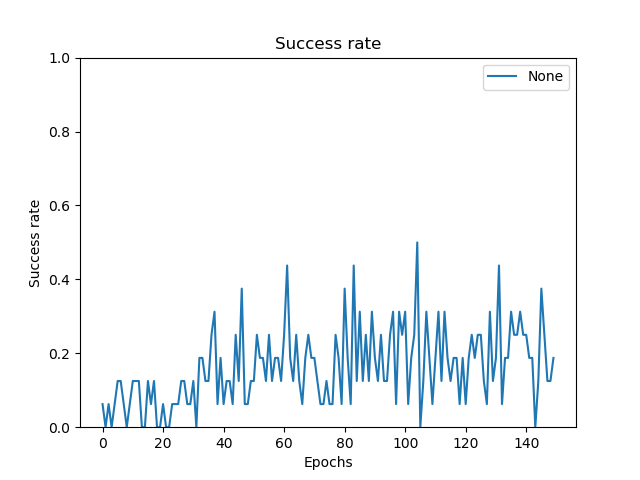
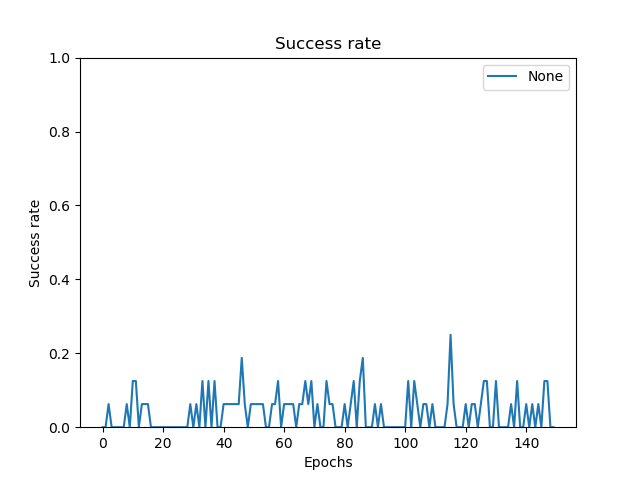
hw3 final

Changed region(s): [[0.1562, 0.5, 0.875, 0.9062]]

diff --git a/hw3/hw3_code/BitFlip.py b/hw3/hw3_code/BitFlip.py
@@ -1,0 +1,127 @@
+# bit flipping environment for CS330
+
+# Description: implementation of bit flipping environment
+#              for testing RL
+#
+# Revision History
+# 09/28/19    Tim Liu    started file
+# 09/28/19    Tim Liu    added observation_space and action_space
+#                        to BitFlipEnv
+# 09/29/19    Tim Liu    changed environment to pass state and goals as
+#                        numpy arrays
+
+import tensorflow as tf
+import numpy as np
+
+
+class BitFlipEnv():
+    '''bit flipping environment for reinforcement learning.
+    The environment is a 1D vector of binary values (state vector).
+    At each step, the actor can flip a single bit (0 to 1 or 1 to 0).
+    The goal is to flip bits until the state vector matches the
+    goal vector (also a 1D vector of binary values). At each step,
+    the actor receives a goal of 0 if the state and goal vector
+    do not match and a reward of 1 if the state and goal vector
+    match.
+
+    Internally the state and goal vector are a numpy array, which
+    allows the vectors to be printed by the show_goal and show_state
+    methods. When '''
+
+    def __init__(self, num_bits, verbose=False):
+        '''Initialize new instance of BitFlip class.
+        inputs: num_bits - number of bits in the environment; must
+                be an integer
+                verbose - prints state and goal vector after each
+                          step if True'''
+
+        # check that num_bits is a positive integer
+        if (num_bits < 0) or (type(num_bits) != type(0)):
+            print("Invalid number of bits -  must be positive integer")
+            return
+
+        # number of bits in the environment
+        self.num_bits = num_bits
+        # randomly set the state vector
+        self.state_vector = np.random.randint(0, 2, num_bits)
+        # randomly set the goal vector
+        self.goal_vector = np.random.randint(0, 2, num_bits)
+        # whether to print debugging info
+        self.verbose = verbose
+        # TODO set dimensions of observation space
+        self.observation_space = self.state_vector
+        # TODO create action space; may use gym type
+        self.action_space = num_bits
+        # space of the goal vector
+        self.goal_space = self.goal_vector
+        # number of steps taken
+        self.steps = 0
+
+        return
+
+    def show_goal(self):
+        '''Returns the goal as a numpy array. Used for debugging.'''
+        return self.goal_vector
+
+    def show_state(self):
+        '''Returns the state as a numpy array. Used for debugging.'''
+        return self.state_vector
+
+    def reset(self):
+        '''resets the environment. Returns a reset state_vector
+        and goal_vector as tf tensors'''
+
+        # randomly reset both the state and the goal vectors
+        self.state_vector = np.random.randint(0, 2, self.num_bits)
+        self.goal_vector = np.random.randint(0, 2, self.num_bits)
+
+        self.steps = 0
+
+        # return as np array
+        return self.state_vector, self.goal_vector
+
+    def step(self, action):
+        '''take a step and flip one of the bits.
+
+        inputs: action - integer index of the bit to flip
+        outputs: state - new state_vector (tensor)
+                 reward - 0 if state != goal and 1 if state == goal
+                 done - boolean value indicating if the goal has been reached'''
+        self.steps += 1
+
+        if action < 0 or action >= self.num_bits:
+            # check argument is in range
+            print("Invalid action! Must be integer ranging from \
+                0 to num_bits-1")
+            return
+
+        # flip the bit with index action
+        if self.state_vector[action] == 1:
+            self.state_vector[action] = 0
+        else:
+            self.state_vector[action] = 1
+
+        # initial values of reward and done - may change
+        # depending on state and goal vectors
+        reward = 0
+        done = True
+
+        # check if state and goal vectors are identical
+        if False in (self.state_vector == self.goal_vector):
+            reward = -1
+            done = False
+
+        # print additional info if verbose mode is on
+        if self.verbose:
+            print("Bit flipped:   ", action)
+            print("Goal vector:   ", self.goal_vector)
+            print("Updated state: ", self.state_vector)
+            print("Reward:        ", reward)
+
+        if done:
+            # print("Solved in: ", self.steps)
+            pass
+
+        # return state as numpy arrays
+        # return goal_vector in info field
+        return np.copy(self.state_vector), reward, done, self.steps

diff --git a/hw3/sawyer_main_2.py b/hw3/sawyer_main_2.py
@@ -24,9 +24,9 @@ from matplotlib import pyplot as plt
 import multiworld
 import gym
 import random
-# from scipy.spatial import distance
-# import ipdb as pdb
-# from ipdb import slaunch_ipdb_on_exception
+from scipy.spatial import distance
+import ipdb as pdb
+from ipdb import slaunch_ipdb_on_exception
 
 multiworld.register_all_envs()  # register the multiworld environment
 
@@ -176,9 +176,9 @@ def solve_environment(state, goal_state, total_reward):
         # actions in the Sawyer environment
         next_state, reward, done, _ = take_action(action)
         # add to the episode experience (what happened)
-        # episode_experience.append((state, action, reward, next_state, goal_state))
-        episode_experience.append((np.concatenate((state, goal_state)), action, reward,
-                                   np.concatenate((next_state, goal_state)), goal_state))
+        episode_experience.append((state, action, reward, next_state, goal_state))
+        # episode_experience.append((np.concatenate((state, goal_state)), action, reward,
+        #                            np.concatenate((next_state, goal_state)), goal_state))
         # calculate total reward
         total_reward += reward
         # update state
@@ -197,6 +197,7 @@ def solve_environment(state, goal_state, total_reward):
 
 def reward_fn(state_vector, goal_vector):
     return -np.sqrt(np.sum(np.square(state_vector - goal_vector)))
+    # return -1 * distance.euclidean(state_vector, goal_vector)
 
 
 def update_replay_buffer(episode_experience, HER):
@@ -215,9 +216,9 @@ def update_replay_buffer(episode_experience, HER):
 
         s, a, r, s_, g = episode_experience[t]
         # state
-        inputs = s,
+        inputs = np.concatenate([s, g])
         # next state
-        inputs_ = s_
+        inputs_ = np.concatenate([s_, g])
         # add to the replay buffer
         replay_buffer.add(inputs, a, r, inputs_)
 
@@ -230,12 +231,12 @@ def update_replay_buffer(episode_experience, HER):
         elif HER == 'final':
             # final - relabel based on final state in episode
             # pdb.set_trace()
-            new_goal_vector = episode_experience[-1][3][:NUM_DIM]
-            state = inputs[0][:NUM_DIM]
-            new_state = inputs_[:NUM_DIM]
-            full_state = np.concatenate((state, new_goal_vector)),
-            full_new_state = np.concatenate((new_state, new_goal_vector))
-            new_r = reward_fn(new_state, new_goal_vector)
+            new_goal_vector = episode_experience[-1][3]
+            # state = inputs[:NUM_DIM]
+            # new_state = inputs_[:NUM_DIM]
+            full_state = np.concatenate((s, new_goal_vector))
+            full_new_state = np.concatenate((s_, new_goal_vector))
+            new_r = reward_fn(s_, new_goal_vector)
             replay_buffer.add(full_state, a, new_r, full_new_state)
 
         elif HER == 'future':
@@ -357,6 +358,7 @@ def run_sawyer(HER="None"):
 
 
 if __name__ == "__main__":
-    success_rate = run_sawyer(HER=FLAGS.HER)  # run training loop without HER
-    # pass success rate for each run as first argument and labels as second list
-    plot_success_rate([success_rate], [FLAGS.HER])
+    with slaunch_ipdb_on_exception():
+        success_rate = run_sawyer(HER=FLAGS.HER)  # run training loop without HER
+        # pass success rate for each run as first argument and labels as second list
+        plot_success_rate([success_rate], [FLAGS.HER])

diff --git a/hw3/hw3_code/buffers.py b/hw3/hw3_code/buffers.py
@@ -1,0 +1,31 @@
+import numpy as np
+import random
+from collections import deque
+
+
+class Buffer(object):
+
+    def __init__(self, size, sample_size):
+
+        self.size = size
+        self.sample_size = sample_size
+        self.buffer = deque()
+
+    def add(self, state, action, reward, next_state):
+        self.buffer.append((state, action, reward, next_state))
+
+        if len(self.buffer) > self.size:
+            self.buffer.popleft()
+
+    def sample(self):
+        if len(self.buffer) < self.sample_size:
+            samples = self.buffer
+        else:
+            samples = random.sample(self.buffer, self.sample_size)
+
+        state = np.reshape(np.array([arr[0] for arr in samples]), [len(samples), -1])
+        action = np.array([arr[1] for arr in samples])
+        reward = np.array([arr[2] for arr in samples])
+        next_state = np.reshape(np.array([arr[3] for arr in samples]), [len(samples), -1])
+
+        return state, action, reward, next_state
